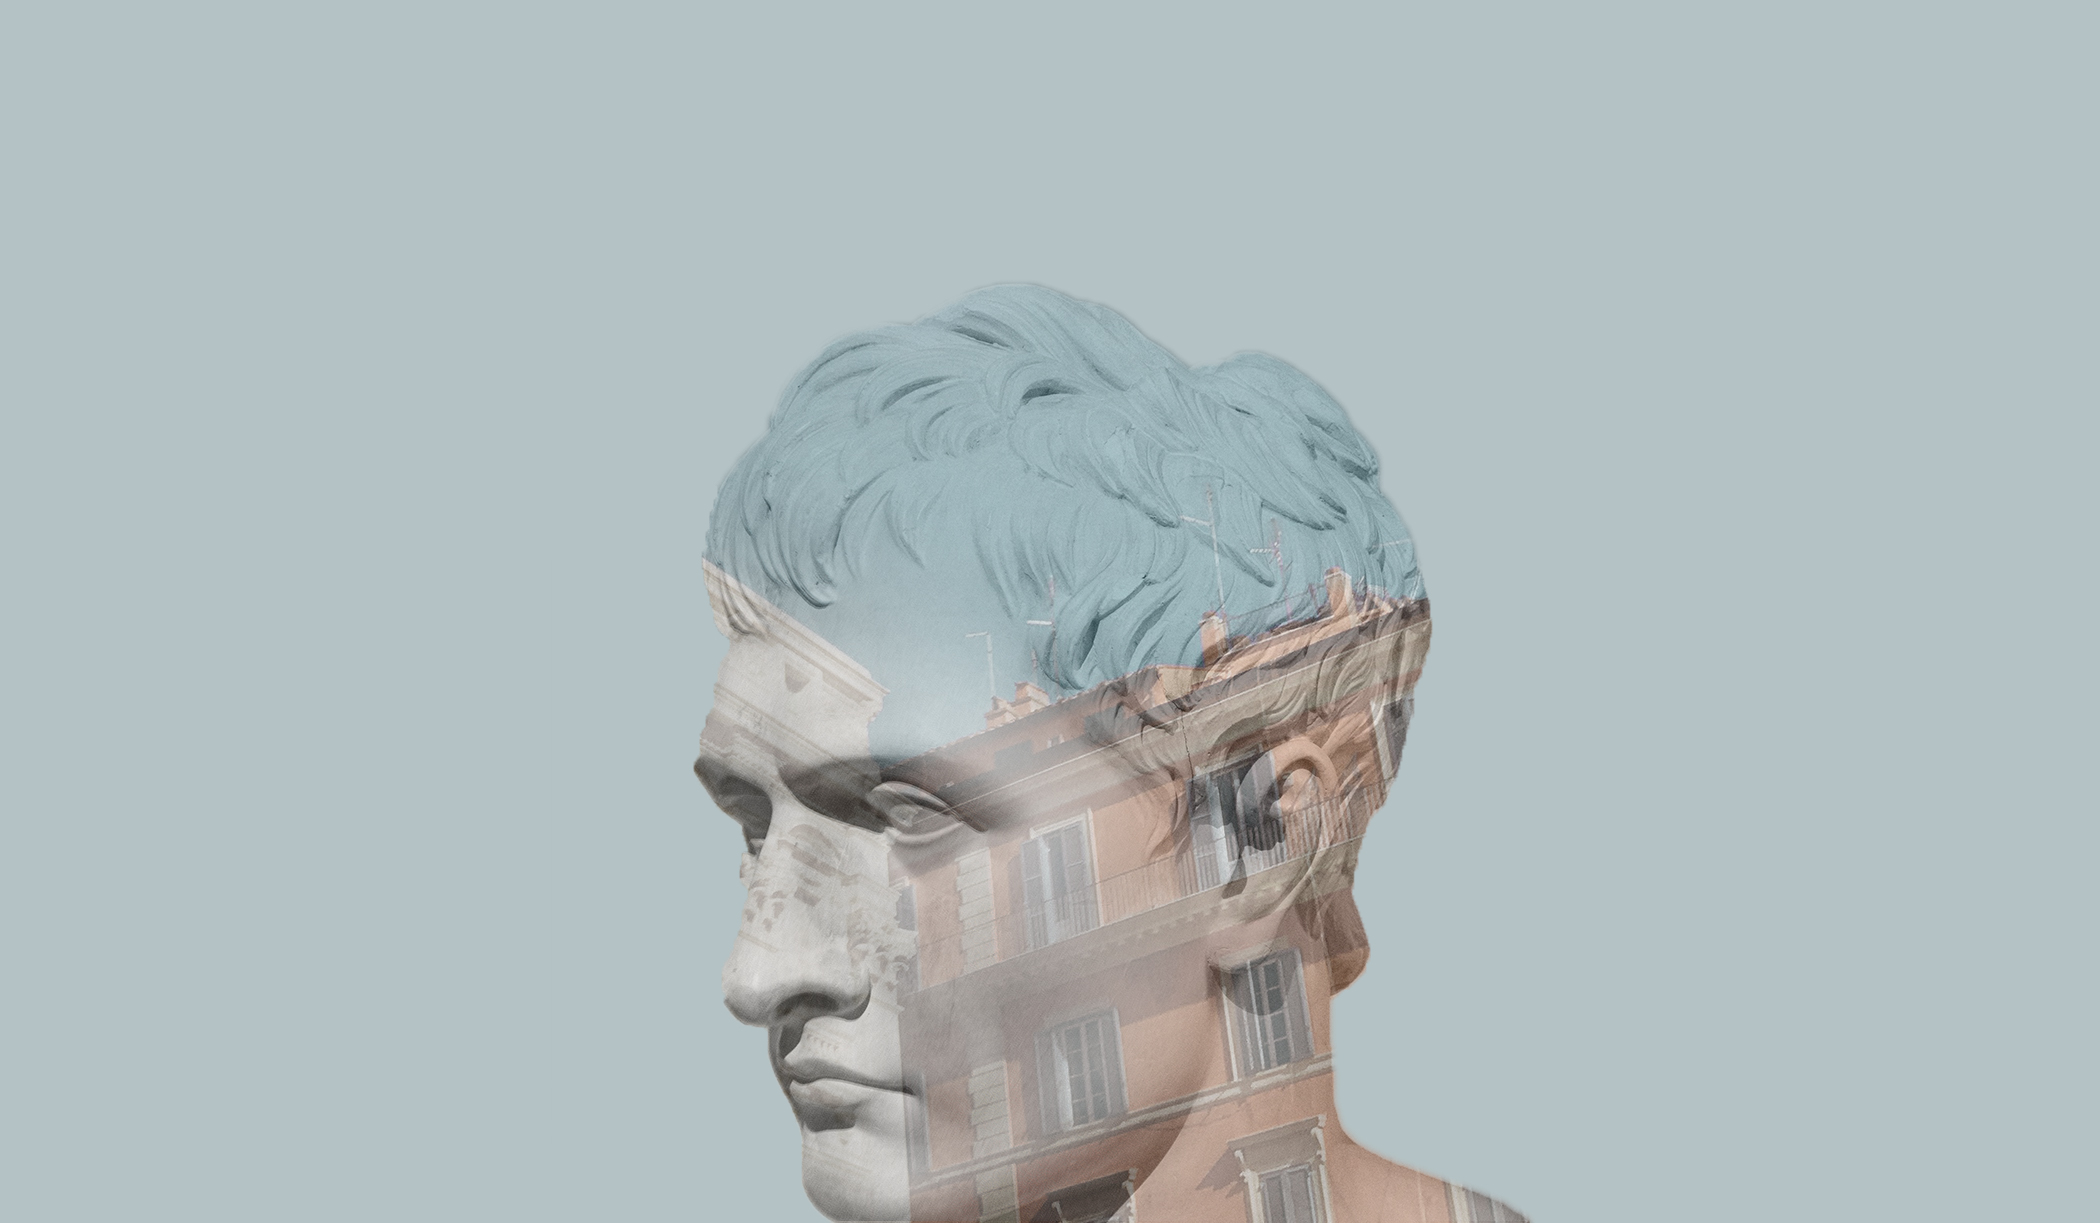
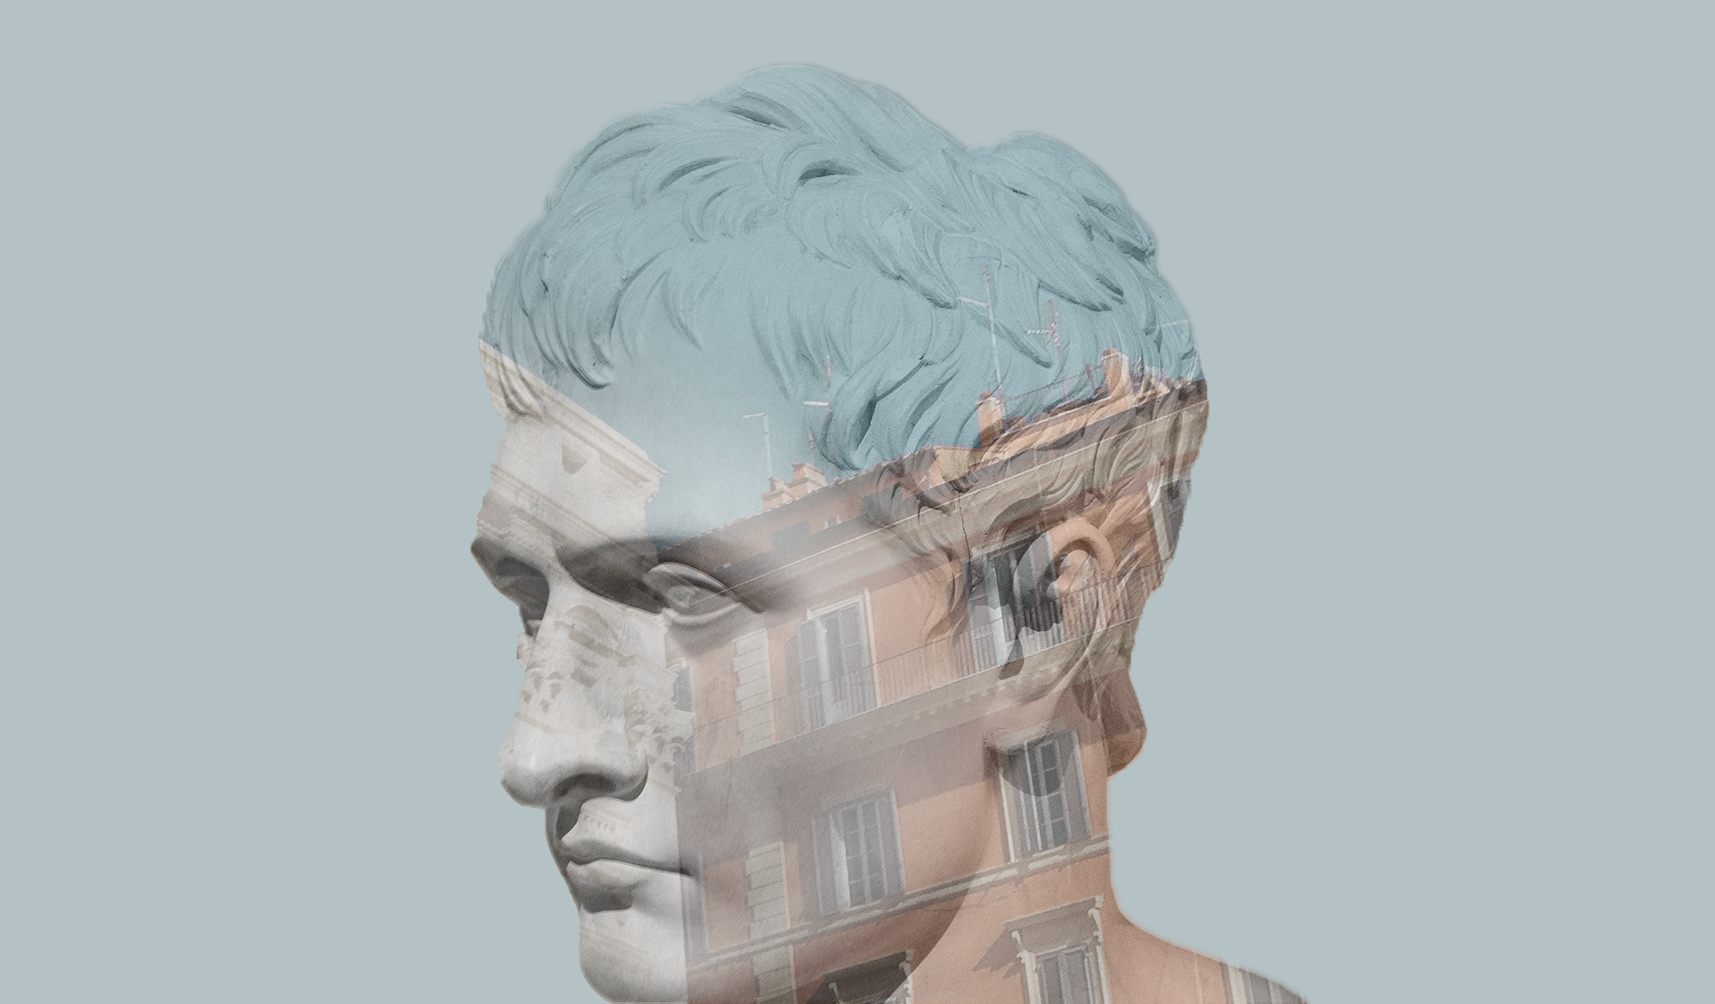
sync

Changed region(s): [[0.2781, 0.0618, 0.7726, 1.0], [0.4017, 0.3088, 0.5254, 0.3705]]

diff --git a/vue/src/views/Home.vue b/vue/src/views/Home.vue
@@ -1,6 +1,7 @@
 <template>
   <div class="homepage-background">
     <div class="home-page">
+      <div class="buffer"></div>
       <home-page></home-page>
       
     </div>
@@ -27,9 +28,15 @@ export default {
   color: white;
   /* margin-top: 60px; */
 }
+.buffer {
+  margin:15vh;
+}
 
 .home-page {
   color: black;
+  display:flex;
+  flex-direction: column;
+  justify-content: flex-end;
   /* padding: 5rem; */
  
  
@@ -40,14 +47,14 @@ export default {
   /* background-color: #b4c2c5; */
 }
 .homepage-background {
- background-image: url(../assets/background-home.jpg);
-  background-repeat: no-repeat;
-  background-position: center;
-  background-size: 100vw;
-  min-width: 420px;
+background-image: url(../assets/background-home-cropped.jpg);
+background-repeat: no-repeat;
+background-position: top;
+background-size: 100vw;
+min-width: 420px;
   /* padding: 0 0 50% 0; */
 height: 100vh;
-width: 100vw;
+width: auto;
 position: center;
   /* margin: 18%; */
   /* height: 100%;

diff --git a/vue/src/components/HomePage.vue b/vue/src/components/HomePage.vue
@@ -11,7 +11,7 @@
       <h3>Plan a tour</h3>
       <!-- <div></div> -->
     </div>
-    <div class="test"></div>
+    
   </div>
 </template>
 
@@ -55,6 +55,7 @@ export default {
 .homepage {
   display: flex;
   flex-direction: column;
+  justify-content: last baseline;
   /* padding: 5rem; */
 }
 /* .header {

diff --git a/vue/src/App.vue b/vue/src/App.vue
@@ -77,12 +77,15 @@ export default {
   font-family: "Open Sans", sans-serif;
 }
 header {
-  padding: 31px;
+  
+  padding: 25px;
   display: flex;
   justify-content: flex-end;
   
   background-color: #5ba1b0;
   font-size: 25px;
+  
+  
 }
 nav {
   padding:20px;
